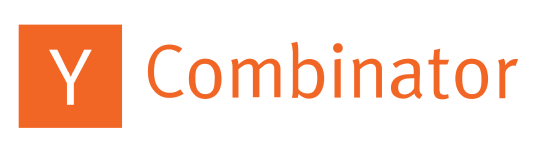
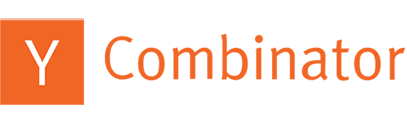
partners section

Changed region(s): [[0.0, 0.144, 1.0, 0.84]]

diff --git a/index.html b/index.html
@@ -93,9 +93,9 @@
 
 <div id="patch">
 
-  <img style="margin:0; object-fit: cover; width: 100%; height: 100%;" src="./public/style/patch.png"/>
+  <img style="margin:0; object-fit: cover; width: 300px; height: auto;" src="./public/style/patch.png"/>
   
-  <div style="padding-left: 10px; white-space: pre-line; max-width: 60%">
+  <div style="padding-left: 30px; white-space: pre-line; max-width: 60%">
     Avro Life Science is developing skin patches for generic drug delivery, focusing on therapeutics for children and the elderly. The core of our technology is a novel biopolymer which is used as a platform for passive transdermal drug delivery of small molecules and drugs. To learn more, or chat about partnering, send us a note at: 
     <a href="mailto:contact@avrolifesci.com">contact@avrolifesci.com.</a>
   </div>
@@ -153,37 +153,37 @@
 <table id="advisors">
   
   <tr>
-    <td>
+    <td class="partnerlogo">
       <img src="./public/style/ycomb.png"/>
     </td>
-    <td>
+    <td class="partnerlogo">
       <img src="./public/style/bayer.png"/>
     </td>
-    <td>
+    <td class="partnerlogo">
       <img src="./public/style/cdl.png"/>
     </td>
   </tr>
 
   <tr>    
-    <td>
+    <td class="partnerlogo">
       <img src="./public/style/communitech.png"/>
     </td>
-    <td>
+    <td class="partnerlogo">
       <img src="./public/style/microsoft.png"/>
     </td>
-    <td>
+    <td class="partnerlogo">
       <img src="./public/style/remedys.png"/>
     </td>
   </tr>
 
   <tr>
-    <td>
+    <td class="partnerlogo">
       <img src="./public/style/kairos.png"/>
     </td>
-    <td>
+    <td class="partnerlogo">
       <img src="./public/style/velocity.png"/>
     </td>
-    <td>
+    <td class="partnerlogo">
       <img src="./public/style/stmichaels.png"/>
     </td>
   </tr>

diff --git a/public/style/css/stylesheet-montserrat.css b/public/style/css/stylesheet-montserrat.css
@@ -208,7 +208,7 @@ a[href^="mailto:"] {
 
     padding-bottom: 200px;
 
-    width: 100%;
+    max-width: 100%;
     align-content: center;
     justify-content:center;
 
@@ -219,6 +219,13 @@ td {
     padding-right: 75px;
     padding-left: 75px;
     padding-bottom: 50px;
+}
+
+td.partnerlogo{
+   max-width: 280px;
+   height: auto;
+   justify-content: left;
+
 }
 
 .col {
